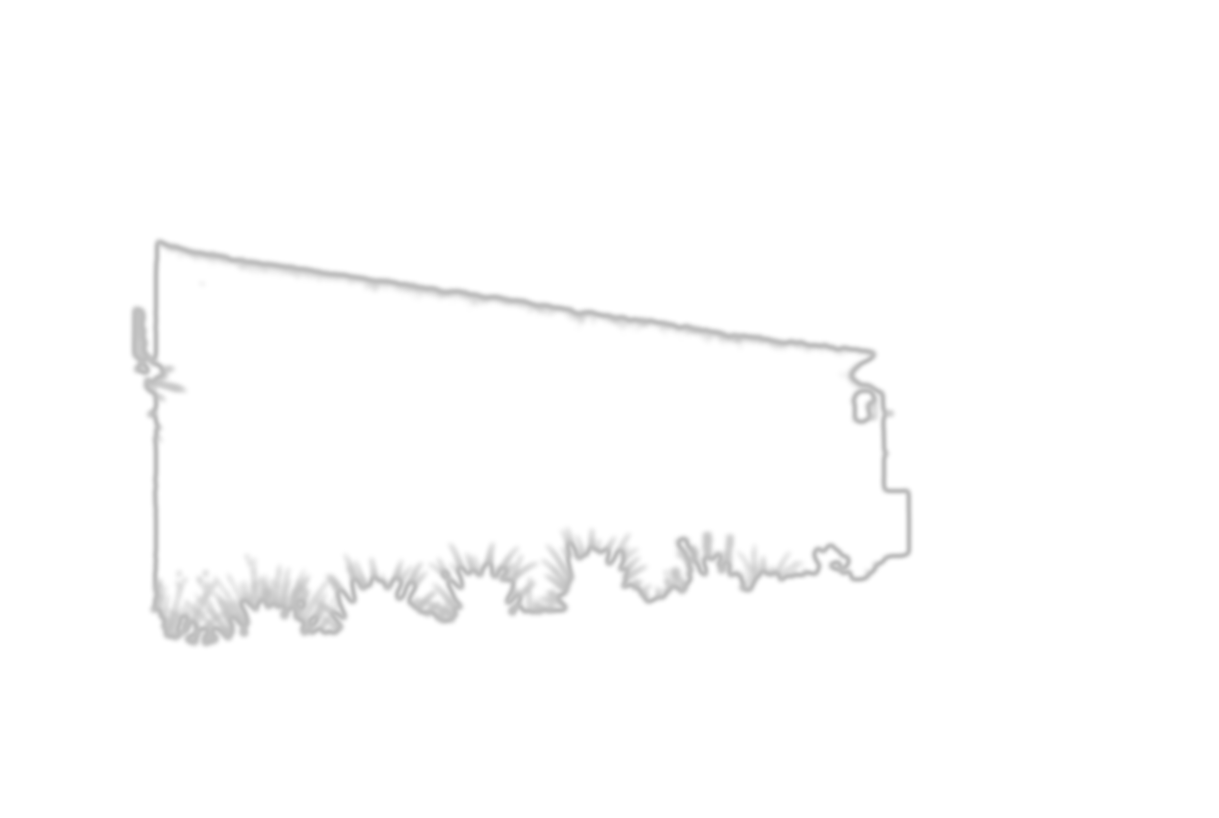
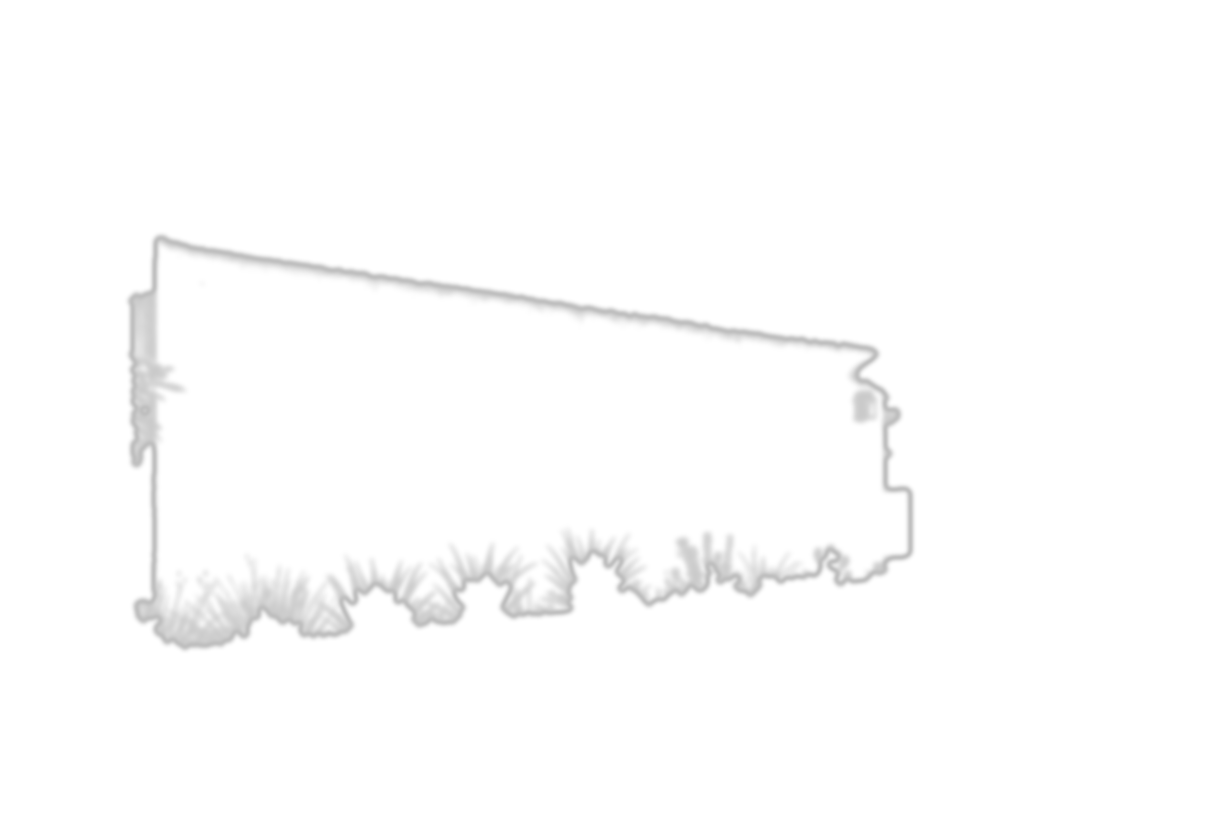
Visualiser masks: refine — fill internal gaps, hold edges
The wall masks had black spots inside the wall region (picture frames,
wall lights, slight colour variation) so the recolour came out with
unpainted patches. Tightened the per-room tolerances and rebuilt the
mask pipeline:

- binary_fill_holes after CC isolation plugs every interior hole in
  the wall blob. This is what actually solves the gap problem — the
  hole-fill ignores colour distance so even darker fixtures inside
  the wall now get covered.
- binary_dilation by 2 px so the soft edge blends a touch past the
  detected boundary instead of cutting one pixel short.
- binary_closing iterations: 3 → 5 to bridge thin gaps (mouldings,
  picture-frame edges) before CC analysis.
- Soft-edge ramp floor lifted from 145 to 180 — partial wall pixels
  now take the colour strongly instead of looking washed out.
- Per-room dist tuned conservatively so we plug gaps without
  bleeding into similar-coloured furniture (curtains, tables).
- New 'interior' fill: any pixel inside the kept blob that the soft
  ramp missed (because hole-fill brought it in from outside the
  distance threshold) gets set to 220 so the previously-empty
  interior holes have strong coverage.

QA composites confirmed living-modern, exterior and most others now
have solid wall fill. Bedroom-suite still has minor curtain bleed
(curtain and wall are near-identical cream); known hard case.

diff --git a/images/rooms/_make_wall_masks.py b/images/rooms/_make_wall_masks.py
@@ -11,22 +11,24 @@ from PIL import Image, ImageFilter
 
 ROOMS_DIR = os.path.dirname(os.path.abspath(__file__))
 
-# Per-room config: (seed_x_frac, seed_y_frac, max_distance, floor_frac, top_frac, blur)
+# Per-room config: (seed_x_frac, seed_y_frac, max_distance, floor_frac, top_frac)
 # seed = approximate location of a definite wall pixel
-# max_distance = Euclidean colour distance (0-441) tolerated from the seed
+# Gap-fill strategy: keep dist conservative (so we don't bleed into
+# curtains / tables / similar-coloured furniture) and rely on
+# binary_fill_holes downstream to plug interior holes. Tighter than v3.
 ROOMS = {
-    'room-living-modern':  dict(seed=(0.50, 0.20), dist=42, floor=0.75, top=0.00),
-    'room-living-warm':    dict(seed=(0.55, 0.15), dist=42, floor=0.55, top=0.00),
-    'room-bedroom-soft':   dict(seed=(0.78, 0.18), dist=38, floor=0.55, top=0.00),
-    'room-bedroom-suite':  dict(seed=(0.70, 0.18), dist=42, floor=0.55, top=0.00),
-    'room-kitchen-island': dict(seed=(0.50, 0.20), dist=38, floor=0.45, top=0.00),
-    'room-kitchen-warm':   dict(seed=(0.50, 0.20), dist=55, floor=0.62, top=0.00),
-    'room-dining':         dict(seed=(0.50, 0.30), dist=38, floor=0.72, top=0.00),
-    'room-bathroom':       dict(seed=(0.55, 0.18), dist=38, floor=0.62, top=0.00),
-    'room-hallway':        dict(seed=(0.75, 0.30), dist=42, floor=0.78, top=0.00),
-    'room-office':         dict(seed=(0.72, 0.20), dist=42, floor=0.62, top=0.00),
-    'room-child':          dict(seed=(0.45, 0.18), dist=38, floor=0.62, top=0.00),
-    'room-exterior':       dict(seed=(0.50, 0.45), dist=60, floor=0.80, top=0.05),
+    'room-living-modern':  dict(seed=(0.50, 0.20), dist=54, floor=0.75, top=0.00),
+    'room-living-warm':    dict(seed=(0.55, 0.15), dist=50, floor=0.55, top=0.00),
+    'room-bedroom-soft':   dict(seed=(0.78, 0.18), dist=44, floor=0.55, top=0.00),
+    'room-bedroom-suite':  dict(seed=(0.70, 0.18), dist=40, floor=0.62, top=0.00),
+    'room-kitchen-island': dict(seed=(0.50, 0.20), dist=44, floor=0.45, top=0.00),
+    'room-kitchen-warm':   dict(seed=(0.50, 0.20), dist=60, floor=0.55, top=0.00),
+    'room-dining':         dict(seed=(0.50, 0.30), dist=46, floor=0.72, top=0.00),
+    'room-bathroom':       dict(seed=(0.55, 0.18), dist=44, floor=0.62, top=0.00),
+    'room-hallway':        dict(seed=(0.75, 0.30), dist=50, floor=0.78, top=0.00),
+    'room-office':         dict(seed=(0.72, 0.20), dist=50, floor=0.62, top=0.00),
+    'room-child':          dict(seed=(0.45, 0.18), dist=44, floor=0.62, top=0.00),
+    'room-exterior':       dict(seed=(0.50, 0.45), dist=68, floor=0.80, top=0.05),
 }
 
 def make_mask(im, p, slug):
@@ -53,8 +55,10 @@ def make_mask(im, p, slug):
     band[top_y:floor_y, :] = True
     candidate &= band
 
-    # Morphological close + open to clean up
-    candidate = ndi.binary_closing(candidate, iterations=3)
+    # Morphological close + open to clean up. Heavier closing than v2
+    # so that thin gaps (mouldings, picture-frame edges) get bridged
+    # and don't fragment the wall blob.
+    candidate = ndi.binary_closing(candidate, iterations=5)
     candidate = ndi.binary_opening(candidate, iterations=2)
 
     # Keep the connected component containing the seed point
@@ -68,14 +72,33 @@ def make_mask(im, p, slug):
         seed_label = int(np.argmax(sizes)) + 1
     keep = (labeled == seed_label)
 
-    # Soft-edge graded mask: full where close to seed, half where in tolerance edge
+    # Fill any internal holes inside the wall blob — picture frames,
+    # mirrors, lights and other in-wall objects were leaving black
+    # gaps in the mask. This plugs them so the recolour is solid.
+    keep = ndi.binary_fill_holes(keep)
+
+    # Slightly dilate the final mask so soft edges blend cleanly past
+    # the wall boundary instead of stopping a pixel short.
+    keep = ndi.binary_dilation(keep, iterations=2)
+
+    # Soft-edge graded mask: full where close to seed, lifted floor
+    # where in tolerance edge (was 145 → 180; ensures the wall takes
+    # the colour strongly even in slightly-shadowed regions).
     grade = np.zeros_like(dist, dtype=np.float32)
     edge = p['dist'] * 0.65
     full = keep & (dist <= edge)
     soft = keep & (dist > edge)
     grade[full] = 255
-    # Linear ramp from 255 down to ~150 at the edge of tolerance
-    grade[soft] = np.clip(255 - (dist[soft] - edge) / (p['dist'] - edge) * 110, 145, 255)
+    grade[soft] = np.clip(
+        255 - (dist[soft] - edge) / (p['dist'] - edge) * 75,
+        180, 255
+    )
+    # And: holes that were filled by binary_fill_holes have dist
+    # well above the threshold, so the soft branch missed them.
+    # Force any pixel inside `keep` that isn't yet set to a solid
+    # 220 — gives the previously-empty interior holes strong coverage.
+    interior = keep & (grade < 1)
+    grade[interior] = 220
 
     mask_im = Image.fromarray(grade.astype(np.uint8), 'L')
     mask_im = mask_im.filter(ImageFilter.GaussianBlur(radius=2.5))
